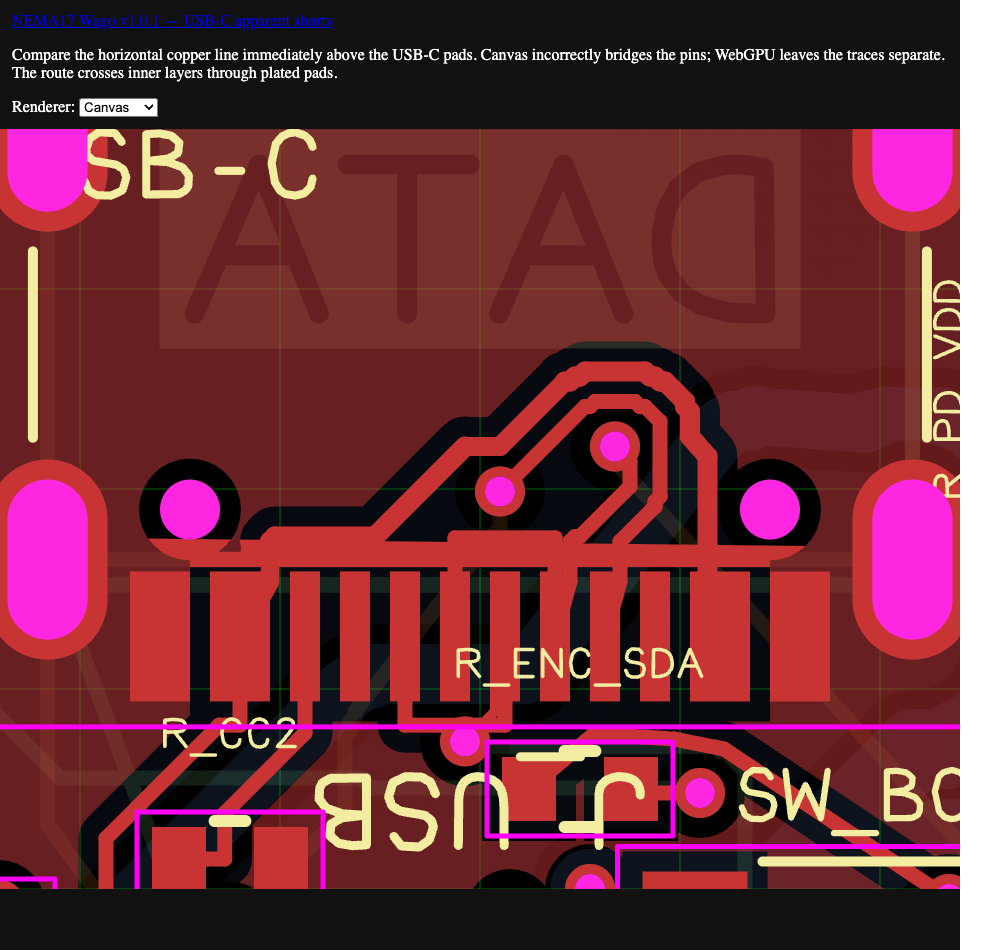
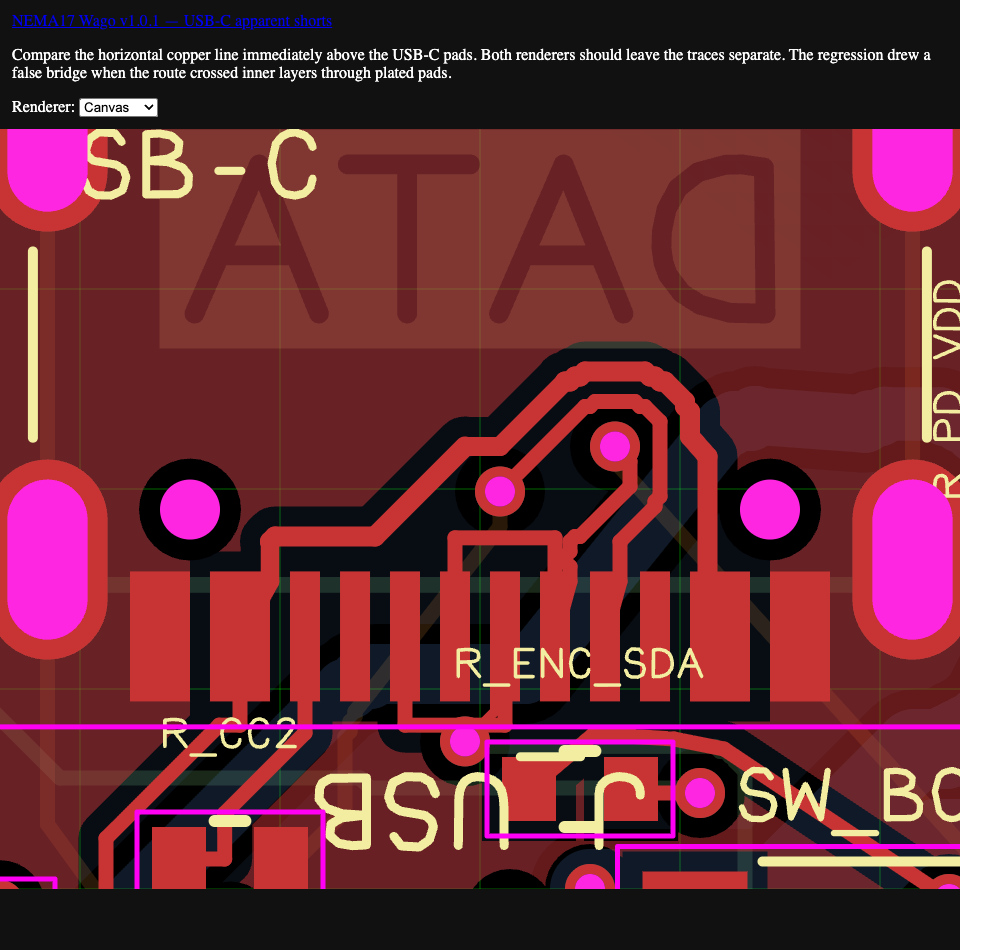
fix: prevent false canvas copper bridges across layer transitions (#1209)
* fix: preserve canvas trace topology across layer transitions

* test: replace repro screenshot in place for image diff

diff --git a/tests/canvas-trace-topology/main.ts b/tests/canvas-trace-topology/main.ts
@@ -1,0 +1,123 @@
+import type { AnyCircuitElement, LayerRef, PcbTrace } from "circuit-json"
+import { compose, scale, translate, applyToPoint } from "transformation-matrix"
+import { drawPcbTraceElementsForLayer } from "../../src/lib/draw-pcb-trace"
+import type { Primitive } from "../../src/lib/types"
+import circuitJson from "../../src/examples/2026/repros/nema17-canvas-shorts/nema17.circuit.json"
+
+const transform = compose(translate(600, 500), scale(40, -40))
+const wire = (x: number, y: number, layer: LayerRef) =>
+  ({ route_type: "wire", x, y, layer, width: 0.2 }) as const
+const throughPad = (x: number, from: LayerRef, to: LayerRef) =>
+  ({
+    route_type: "through_pad",
+    start: { x, y: 0 },
+    end: { x, y: 0 },
+    start_layer: from,
+    end_layer: to,
+    width: 0.2,
+    pcb_plated_hole_id: `pad_${x}`,
+  }) as const
+const via = (x: number, from: LayerRef, to: LayerRef) =>
+  ({ route_type: "via", x, y: 0, from_layer: from, to_layer: to }) as const
+
+const cases = [
+  {
+    name: "through-pad",
+    transitions: [
+      throughPad(-2, "top", "inner1"),
+      throughPad(2, "inner1", "top"),
+    ],
+  },
+  {
+    name: "via",
+    transitions: [via(-2, "top", "inner1"), via(2, "inner1", "top")],
+  },
+  { name: "layer-change", transitions: [] },
+].map(({ name, transitions }) => ({
+  type: "pcb_trace",
+  pcb_trace_id: name,
+  route: [
+    wire(-4, 0, "top"),
+    wire(-2, 0, "top"),
+    ...transitions.slice(0, 1),
+    wire(-2, 0, "inner1"),
+    wire(-2, 2, "inner1"),
+    wire(2, 2, "inner1"),
+    wire(2, 0, "inner1"),
+    ...transitions.slice(1),
+    wire(2, 0, "top"),
+    wire(4, 0, "top"),
+  ],
+})) as PcbTrace[]
+
+function render(
+  trace: PcbTrace,
+  layer: LayerRef,
+  highlighted: boolean,
+  matrix = transform,
+) {
+  const canvas = document.createElement("canvas")
+  canvas.width = 1000
+  canvas.height = 800
+  const primitives = highlighted
+    ? [
+        {
+          _element: trace,
+          is_mouse_over: true,
+        } as Primitive,
+      ]
+    : []
+  drawPcbTraceElementsForLayer({
+    canvas,
+    elements: [trace] as AnyCircuitElement[],
+    layers: [`${layer}_copper`],
+    realToCanvasMat: matrix,
+    primitives,
+    showCopperPours: false,
+  })
+  return (x: number, y: number) => {
+    const point = applyToPoint(matrix, { x, y })
+    return canvas
+      .getContext("2d")!
+      .getImageData(Math.round(point.x), Math.round(point.y), 1, 1).data[3]
+  }
+}
+
+const results: Record<string, number> = {}
+for (const highlighted of [false, true]) {
+  for (const trace of cases) {
+    const prefix = `${trace.pcb_trace_id}/${highlighted}`
+    const top = render(trace, "top", highlighted)
+    const inner = render(trace, "inner1", highlighted)
+    results[`${prefix}/top-left`] = top(-3, 0)
+    results[`${prefix}/top-right`] = top(3, 0)
+    results[`${prefix}/false-bridge`] = top(0, 0)
+    results[`${prefix}/hidden-inner`] = top(0, 2)
+    results[`${prefix}/inner-run`] = inner(0, 2)
+    results[`${prefix}/hidden-top`] = inner(-3, 0)
+  }
+  // The exact route responsible for the line across J_USB in the published board.
+  const trace = circuitJson.find(
+    (e) => e.type === "pcb_trace" && e.pcb_trace_id === "top_assembly_165",
+  ) as PcbTrace
+  const matrix = compose(translate(600, 780), scale(40, -40))
+  results[`board/${highlighted}/false-bridge`] = render(
+    trace,
+    "top",
+    highlighted,
+    matrix,
+  )(-7, 15.2943068)
+  results[`board/${highlighted}/inner-run`] = render(
+    trace,
+    "inner1",
+    highlighted,
+    matrix,
+  )(-7, 15.0419)
+}
+
+declare global {
+  interface Window {
+    canvasTraceTopologyResults: typeof results
+  }
+}
+window.canvasTraceTopologyResults = results

diff --git a/src/lib/draw-pcb-trace.ts b/src/lib/draw-pcb-trace.ts
@@ -28,37 +28,25 @@ export const filterTraceByLayers = (
   trace: PcbTrace,
   targetLayers: Set<string>,
 ): PcbTrace | null => {
-  const filteredRoute = trace.route.filter((segment) => {
-    if (
-      segment.route_type === "wire" &&
-      "layer" in segment &&
-      targetLayers.has(segment.layer)
-    ) {
-      return true
-    }
-
-    if (segment.route_type === "via") {
+  // Select whole traces, never route points. Removing another layer's wires or
+  // through_pad transitions makes separate runs adjacent and invents copper.
+  // circuit-to-canvas already splits the original route and filters by layer.
+  const touchesLayer = trace.route.some((point) => {
+    if (point.route_type === "wire") return targetLayers.has(point.layer)
+    if (point.route_type === "via") {
       return (
-        targetLayers.has(segment.from_layer) ||
-        targetLayers.has(segment.to_layer)
+        targetLayers.has(point.from_layer) || targetLayers.has(point.to_layer)
       )
     }
-
+    if (point.route_type === "through_pad") {
+      return (
+        targetLayers.has(point.start_layer) || targetLayers.has(point.end_layer)
+      )
+    }
     return false
   })
 
-  const wireCount = filteredRoute.filter(
-    (segment) => segment.route_type === "wire",
-  ).length
-
-  const hasVia = filteredRoute.some((segment) => segment.route_type === "via")
-
-  if (wireCount < 2 && !hasVia) return null
-
-  return {
-    ...trace,
-    route: filteredRoute,
-  }
+  return touchesLayer ? trace : null
 }
 
 export const showTraceSegmentsInsideHiddenCopperPours = (

diff --git a/tests/canvas-trace-topology.test.ts b/tests/canvas-trace-topology.test.ts
@@ -1,0 +1,40 @@
+import { expect, test } from "bun:test"
+import { fileURLToPath } from "node:url"
+import { type Browser, chromium } from "playwright"
+import { createServer } from "vite"
+
+test("Canvas preserves layer transitions instead of painting false copper bridges", async () => {
+  const server = await createServer({
+    root: fileURLToPath(new URL("../", import.meta.url)),
+    server: { host: "127.0.0.1", port: 0 },
+    logLevel: "error",
+  })
+  await server.listen()
+  let browser: Browser | undefined
+  try {
+    browser = await chromium.launch({
+      headless: true,
+      ...(process.env.PLAYWRIGHT_CHROMIUM_EXECUTABLE
+        ? { executablePath: process.env.PLAYWRIGHT_CHROMIUM_EXECUTABLE }
+        : {}),
+    })
+    const page = await browser.newPage()
+    const errors: string[] = []
+    page.on("pageerror", (error) => errors.push(error.message))
+    await page.goto(
+      new URL("tests/canvas-trace-topology/", server.resolvedUrls!.local[0])
+        .href,
+    )
+    await page.waitForFunction(() => window.canvasTraceTopologyResults)
+    const results = await page.evaluate(() => window.canvasTraceTopologyResults)
+    expect(Object.keys(results)).toHaveLength(40)
+    for (const [name, alpha] of Object.entries(results)) {
+      const shouldPaint = /\/(top-left|top-right|inner-run)$/.test(name)
+      expect(alpha, name).toBe(shouldPaint ? 255 : 0)
+    }
+    expect(errors).toEqual([])
+  } finally {
+    await browser?.close()
+    await server.close()
+  }
+}, 60_000)

diff --git a/tests/lib/draw-pcb-trace.test.ts b/tests/lib/draw-pcb-trace.test.ts
@@ -46,14 +46,8 @@ describe("drawPcbTrace layer filtering", () => {
     const filtered = filterTraceByLayers(trace, new Set(["top"]))
 
     expect(filtered).toBeDefined()
-    expect(filtered?.route.map((segment) => segment.route_type)).toEqual([
-      "wire",
-      "wire",
-      "via",
-      "via",
-      "wire",
-      "wire",
-    ])
+    expect(filtered).toBe(trace)
+    expect(filtered?.route).toBe(trace.route)
   })
 
   it("keeps route vias on layers without two wire points", () => {
@@ -74,10 +68,9 @@ describe("drawPcbTrace layer filtering", () => {
       ],
     } as PcbTrace
 
-    expect(filterTraceByLayers(trace, new Set(["top"]))?.route).toEqual([
-      trace.route[0],
-      trace.route[1],
-    ])
+    expect(filterTraceByLayers(trace, new Set(["top"]))?.route).toBe(
+      trace.route,
+    )
     expect(filterTraceByLayers(trace, new Set(["bottom"]))).toBeNull()
   })
 

diff --git a/src/examples/2026/repros/nema17-canvas-shorts/nema17-canvas-shorts.fixture.tsx b/src/examples/2026/repros/nema17-canvas-shorts/nema17-canvas-shorts.fixture.tsx
@@ -31,8 +31,8 @@ export default function Nema17CanvasShorts() {
         </a>
         <p>
           Compare the horizontal copper line immediately above the USB-C pads.
-          Canvas incorrectly bridges the pins; WebGPU leaves the traces
-          separate. The route crosses inner layers through plated pads.
+          Both renderers should leave the traces separate. The regression drew a
+          false bridge when the route crossed inner layers through plated pads.
         </p>
         <label>
           Renderer:{" "}

diff --git a/tests/canvas-trace-topology/index.html b/tests/canvas-trace-topology/index.html
@@ -1,0 +1,1 @@
+<!doctype html><html><body><script type="module" src="./main.ts"></script></body></html>
